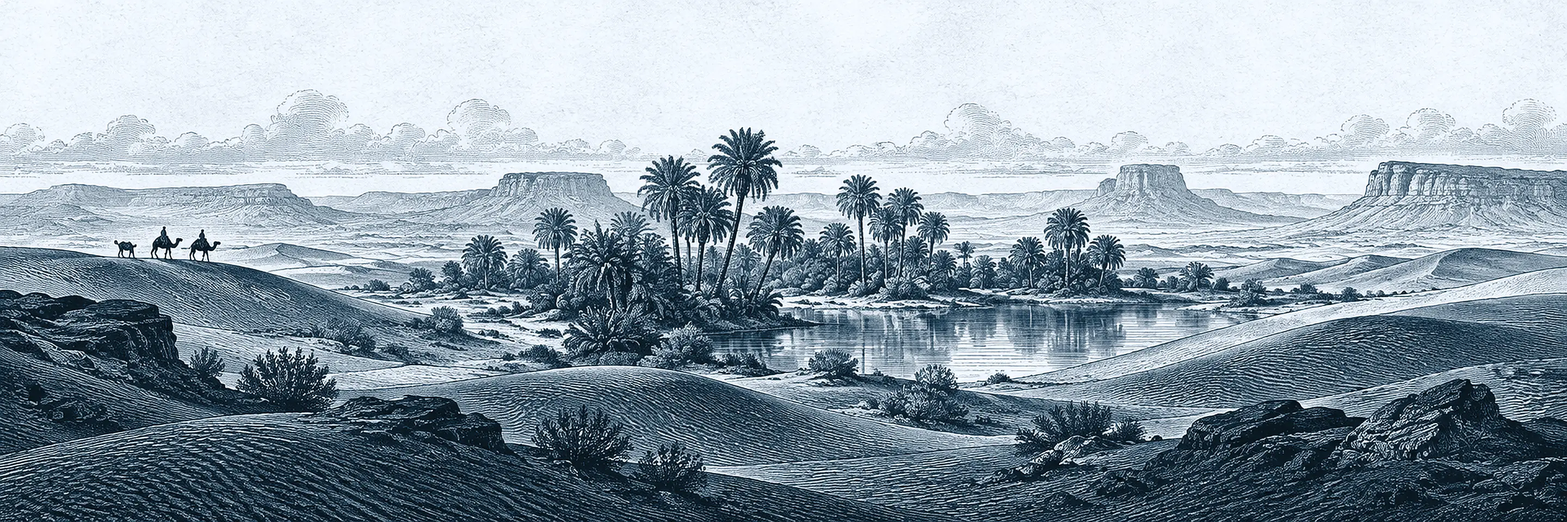
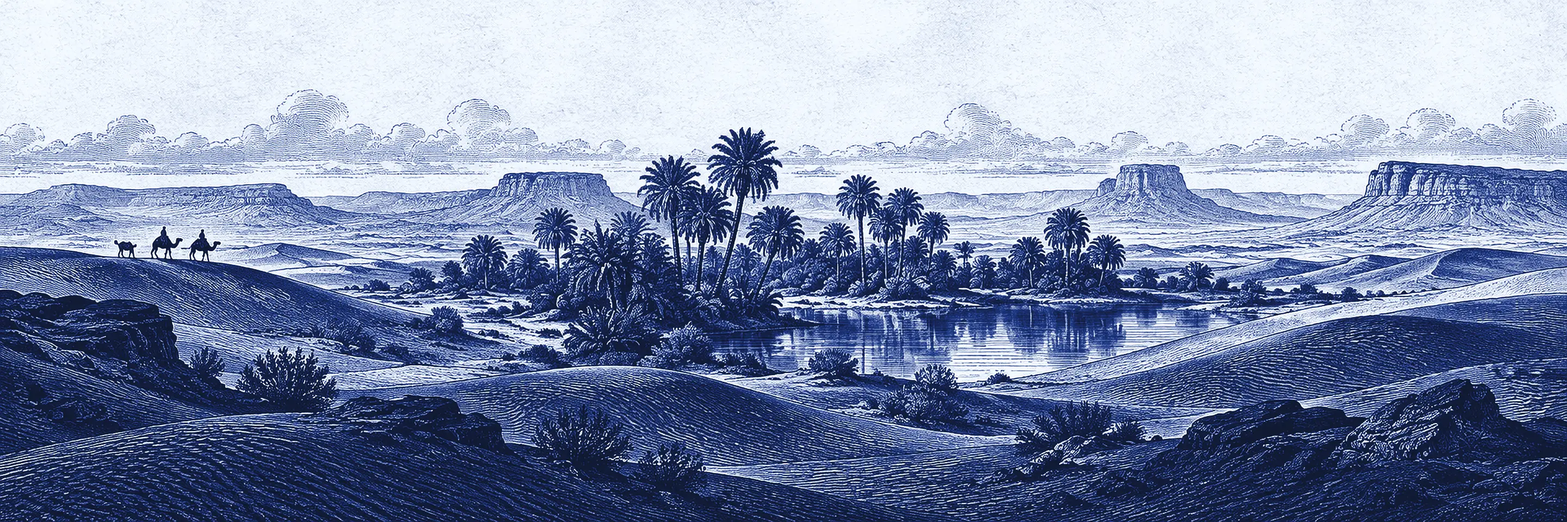
Web footer: ink the plate in the azure ramp behind primary
The brand.500 slate read grey; re-ink the oasis plate in azure.1000/950
with azure.900 mid-tones on the same accent paper, closer to the brand
blue. Panel, mark and text tokens are unchanged.

Claude-Session: https://claude.ai/code/session_01Hxn5m3KJAwbf5oza7D6ghF

diff --git a/apps/web/src/components/site-footer.tsx b/apps/web/src/components/site-footer.tsx
@@ -33,9 +33,9 @@ const COLS: { title: string; links: { label: string; href: string }[] }[] = [
 ];
 
 /*
-  The footer is a print surface set entirely in the site's semantic tokens: the engraving (design-assets/) is
-  inked in `foreground` and `brand` on `accent` paper, highlights in `background`, and the panel is that
-  same token, so the plate's sky is the panel. `.kx-print-surface` pins these tokens to their light values
+  The footer is a print surface: the panel is the `accent` token, and the engraving (design-assets/) is printed
+  on that same `accent` paper — highlights in `background` — in the `azure` ramp that `primary` comes from
+  (`azure.1000`/`950` ink, `azure.900` mid-tones), so the plate's sky is the panel and its ink is the brand blue. `.kx-print-surface` pins these tokens to their light values
   because the paper stays light in both themes. The mark matches the header (`primary`), headings are
   `foreground` (18.2:1) and the secondary text is `foreground` at 70% (7.3:1) — `muted-foreground` would drop
   to 4.3:1 once dark mode dims the sheet. Dark mode dims it to 85% rather than inverting it (an inverted
